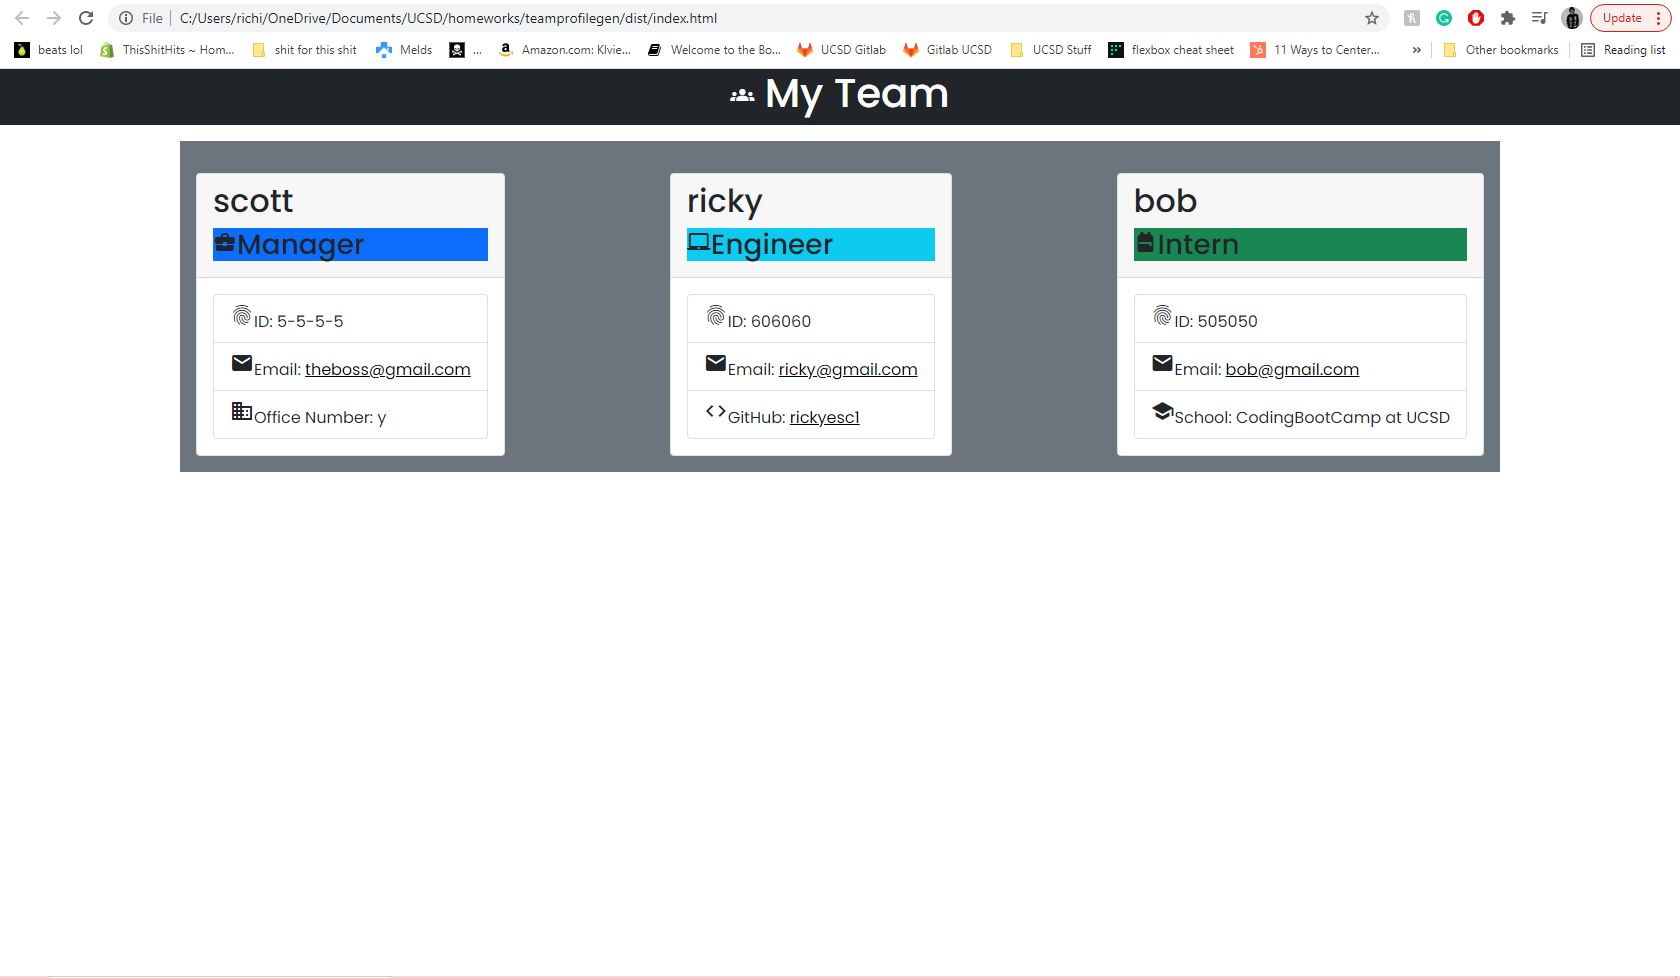
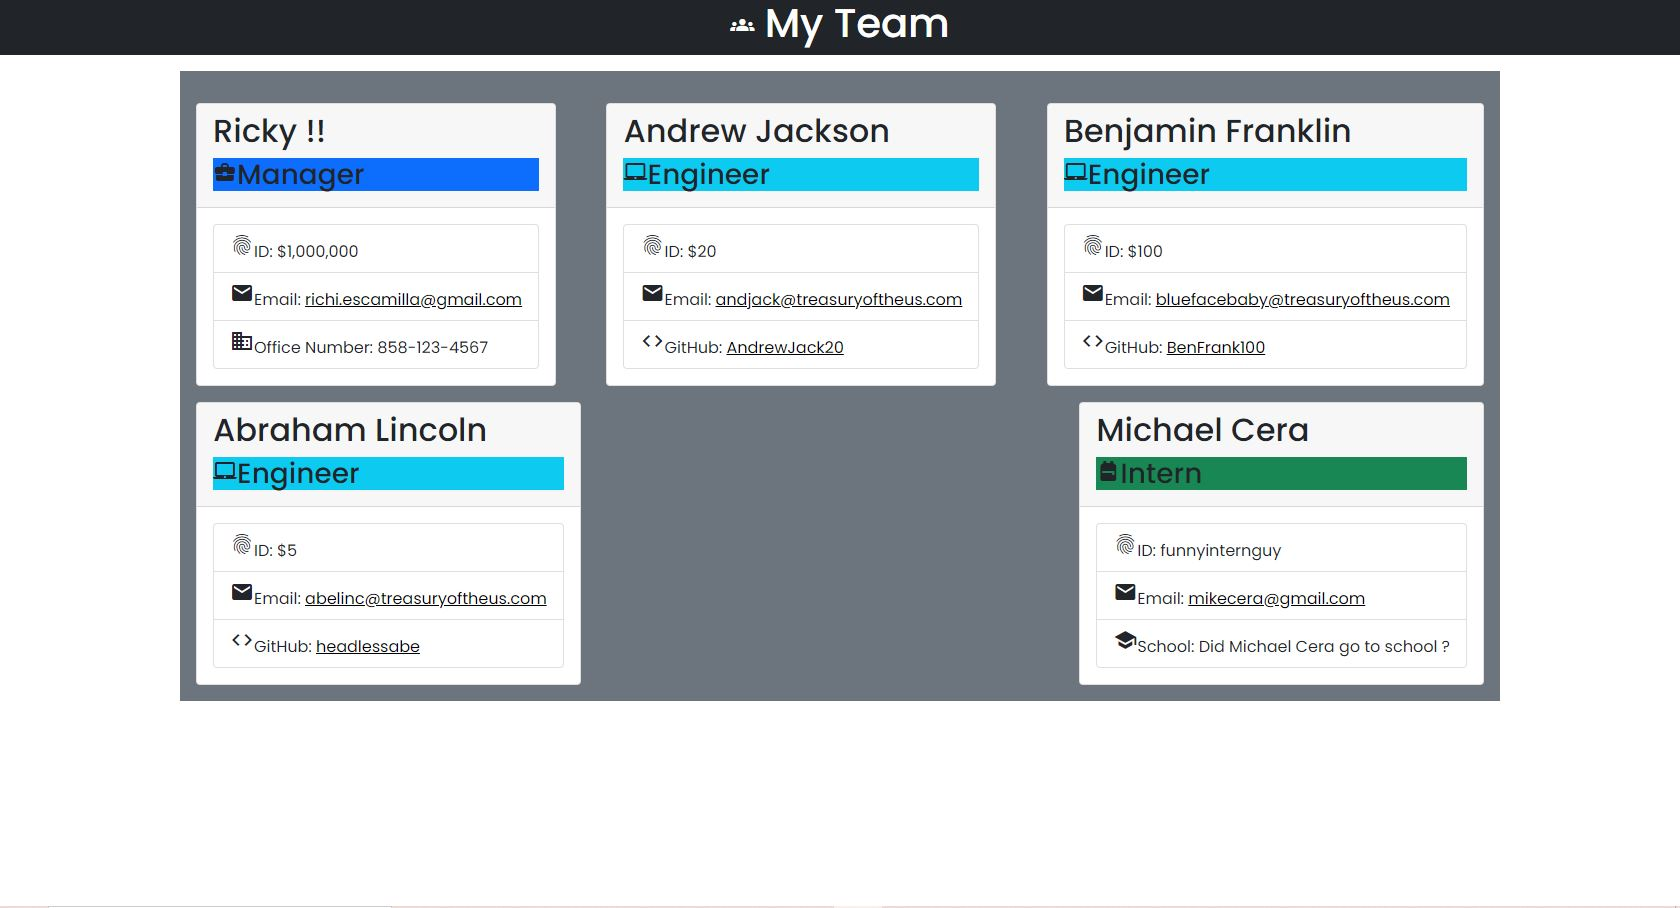
added screenshots, still need to fix the demo video.

diff --git a/dist/index.html b/dist/index.html
@@ -35,38 +35,62 @@
                 
 <div class="card employee-card mr-1 mt-3">
     <div class="card-header">
-        <h2 class="card-title">scott</h2>
+        <h2 class="card-title">Ricky !!</h2>
         <h3 class="card-title bg-primary"><span class="material-icons">business_center</span>Manager</h3>
     </div>
     <div class="card-body">
         <ul class="list-group">
-            <li class="list-group-item"><span class="material-icons">fingerprint</span>ID: 5-5-5-5</li>
-            <li class="list-group-item text-dark"><span class="material-icons">email</span>Email: <a href="mailto:theboss@gmail.com">theboss@gmail.com</a></li>
-            <li class="list-group-item"><span class="material-icons">business</span>Office Number: y</li>
+            <li class="list-group-item"><span class="material-icons">fingerprint</span>ID: $1,000,000</li>
+            <li class="list-group-item text-dark"><span class="material-icons">email</span>Email: <a href="mailto:richi.escamilla@gmail.com">richi.escamilla@gmail.com</a></li>
+            <li class="list-group-item"><span class="material-icons">business</span>Office Number: 858-123-4567</li>
         </ul>
     </div>
 </div><div class="card employee-card mr-1 mt-3">
     <div class="card-header">
-        <h2 class="card-title">ricky</h2>
+        <h2 class="card-title">Andrew Jackson</h2>
         <h3 class="card-title bg-info"><span class="material-icons">laptop_mac</span>Engineer</h3>
     </div>
     <div class="card-body">
         <ul class="list-group">
-            <li class="list-group-item"><span class="material-icons">fingerprint</span>ID: 606060</li>
-            <li class="list-group-item text-dark"><span class="material-icons">email</span>Email: <a href="mailto:ricky@gmail.com">ricky@gmail.com</a></li>
-            <li class="list-group-item text-dark"><span class="material-icons">code</span>GitHub: <a href="https://github.com/rickyesc1" target="_blank">rickyesc1</a></li>
+            <li class="list-group-item"><span class="material-icons">fingerprint</span>ID: $20</li>
+            <li class="list-group-item text-dark"><span class="material-icons">email</span>Email: <a href="mailto:andjack@treasuryoftheus.com">andjack@treasuryoftheus.com</a></li>
+            <li class="list-group-item text-dark"><span class="material-icons">code</span>GitHub: <a href="https://github.com/AndrewJack20" target="_blank">AndrewJack20</a></li>
         </ul>
     </div>
 </div><div class="card employee-card mr-1 mt-3">
     <div class="card-header">
-        <h2 class="card-title">bob</h2>
+        <h2 class="card-title">Benjamin Franklin</h2>
+        <h3 class="card-title bg-info"><span class="material-icons">laptop_mac</span>Engineer</h3>
+    </div>
+    <div class="card-body">
+        <ul class="list-group">
+            <li class="list-group-item"><span class="material-icons">fingerprint</span>ID: $100</li>
+            <li class="list-group-item text-dark"><span class="material-icons">email</span>Email: <a href="mailto:bluefacebaby@treasuryoftheus.com">bluefacebaby@treasuryoftheus.com</a></li>
+            <li class="list-group-item text-dark"><span class="material-icons">code</span>GitHub: <a href="https://github.com/BenFrank100" target="_blank">BenFrank100</a></li>
+        </ul>
+    </div>
+</div><div class="card employee-card mr-1 mt-3">
+    <div class="card-header">
+        <h2 class="card-title">Abraham Lincoln</h2>
+        <h3 class="card-title bg-info"><span class="material-icons">laptop_mac</span>Engineer</h3>
+    </div>
+    <div class="card-body">
+        <ul class="list-group">
+            <li class="list-group-item"><span class="material-icons">fingerprint</span>ID: $5</li>
+            <li class="list-group-item text-dark"><span class="material-icons">email</span>Email: <a href="mailto:abelinc@treasuryoftheus.com">abelinc@treasuryoftheus.com</a></li>
+            <li class="list-group-item text-dark"><span class="material-icons">code</span>GitHub: <a href="https://github.com/headlessabe" target="_blank">headlessabe</a></li>
+        </ul>
+    </div>
+</div><div class="card employee-card mr-1 mt-3">
+    <div class="card-header">
+        <h2 class="card-title">Michael Cera</h2>
         <h3 class="card-title bg-success"><span class="material-icons">backpack</span>Intern</h3>
     </div>
     <div class="card-body">
         <ul class="list-group">
-            <li class="list-group-item"><span class="material-icons">fingerprint</span>ID: 505050</li>
-            <li class="list-group-item text-dark"><span class="material-icons">email</span>Email: <a href="mailto:bob@gmail.com">bob@gmail.com</a></li>
-            <li class="list-group-item"><span class="material-icons">school</span>School: CodingBootCamp at UCSD</li>
+            <li class="list-group-item"><span class="material-icons">fingerprint</span>ID: funnyinternguy</li>
+            <li class="list-group-item text-dark"><span class="material-icons">email</span>Email: <a href="mailto:mikecera@gmail.com">mikecera@gmail.com</a></li>
+            <li class="list-group-item"><span class="material-icons">school</span>School: Did Michael Cera go to school ?</li>
         </ul>
     </div>
 </div>

diff --git a/README.md b/README.md
@@ -75,7 +75,7 @@ JavaScript, Bootstrap, Google Fonts, Material Icons, HTML, Node, Inquirer, Jest 
 
 What the command line interface looks like:
 
-![Team Profile Generator Command Line](./assets/images/screenshot.jpg?raw=true) <br /> 
+![Team Profile Generator Command Line](./assets/images/commandline.JPG?raw=true) <br /> 
 
 What the tests passing looks like:
 
@@ -83,7 +83,7 @@ What the tests passing looks like:
 
 What the index.html file looks like once complete:
 
-![Sample Index.HTML](./assets/images/screenshot2.jpg?raw=true) <br /> 
+![Sample Index.HTML](./assets/images/screenshot2.JPG?raw=true) <br /> 
 
 ## License
 
